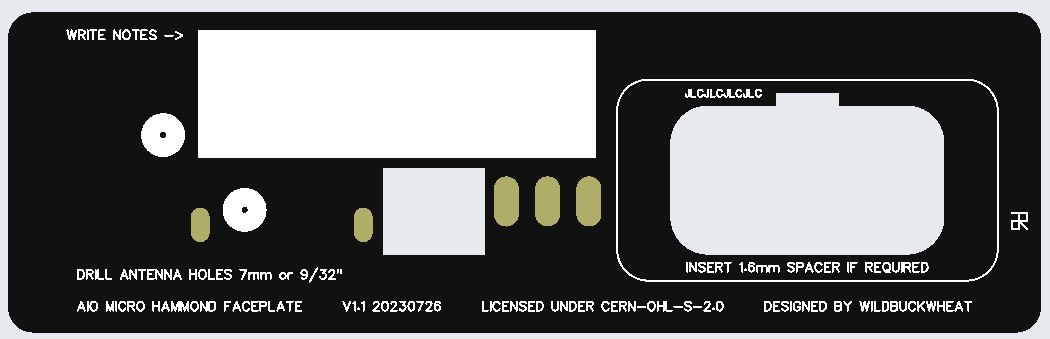
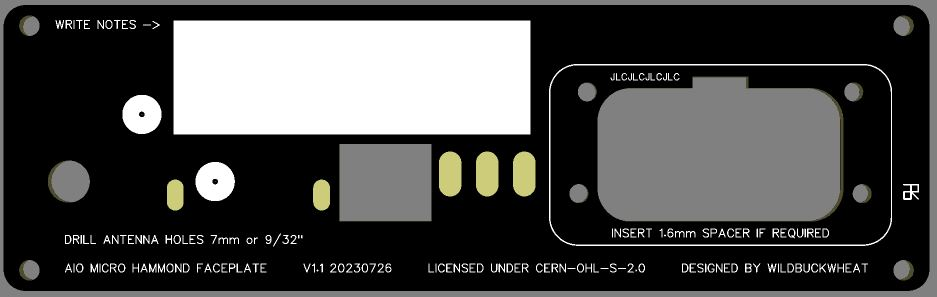
Update gerber views
gerber previews didn't have holes showing, updated

diff --git a/README.md b/README.md
@@ -14,11 +14,11 @@ The real life pictures shown are of v1.0, the files are of v1.1. Between version
 
 <img src="https://github.com/WildBuckwheat/AIO-Micro-Hammond-Faceplate/blob/main/Images/PCBs.JPG" width="350">
 
-<img src="https://github.com/WildBuckwheat/AIO-Micro-Hammond-Faceplate/blob/main/Images/Faceplate_Top_Gerber.JPG" width="350">
+<img src="https://github.com/WildBuckwheat/AIO-Micro-Hammond-Faceplate/blob/main/Images/Faceplate_Top_Gerber.JPG" height="350">
 
-<img src="https://github.com/WildBuckwheat/AIO-Micro-Hammond-Faceplate/blob/main/Images/Faceplate_Bottom_Gerber.JPG" width="350">
+<img src="https://github.com/WildBuckwheat/AIO-Micro-Hammond-Faceplate/blob/main/Images/Faceplate_Bottom_Gerber.JPG" height="350">
 
-<img src="https://github.com/WildBuckwheat/AIO-Micro-Hammond-Faceplate/blob/main/Images/Spacer_Gerber.JPG" width="350">
+<img src="https://github.com/WildBuckwheat/AIO-Micro-Hammond-Faceplate/blob/main/Images/Spacer_Gerber.JPG" height="350">
 
 
 # Features
@@ -46,4 +46,4 @@ The hammond box uses 4x #6-3/8" screws to attach the faceplate. Countersunk scre
 
 # Ordering
 
-Upload the gerber files to your board manufacturer and double check that the selected PCB is 1.6mm thickness. 1.6mm is the default thickness of most board manufacturers.
+Upload the gerber files to your board manufacturer and double check that the selected PCB is 1.6mm thickness. 1.6mm is the default thickness of most board manufacturers. If ordering from JLCPCB, you should set "Remove Order Number" to "Specify a Location." That will place the order number on the JLCJLCJLCJLC placeholder.
